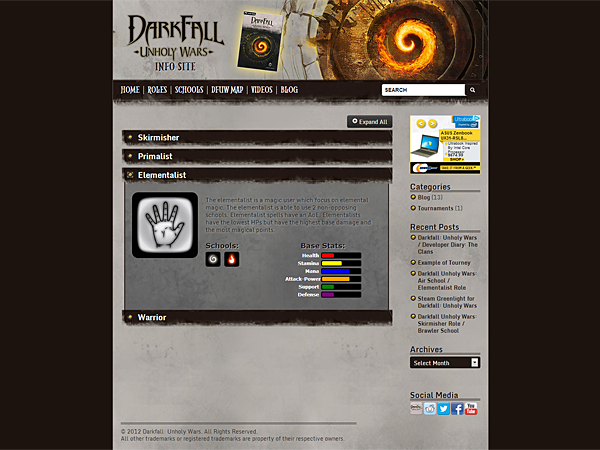
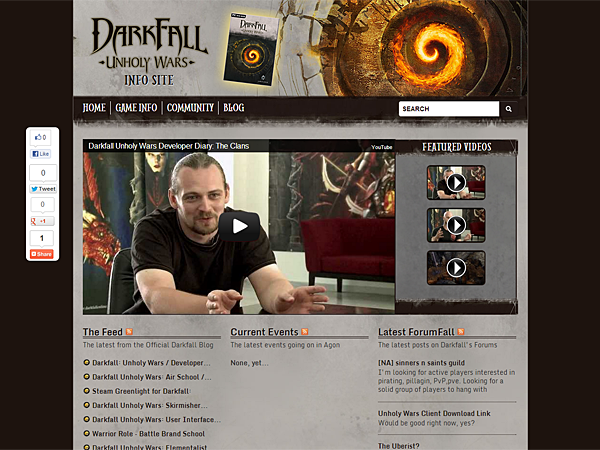
update readme and screenshots

diff --git a/README.md b/README.md
@@ -11,13 +11,24 @@ Dynamic content created within the admin section of WP
   * Spells
   * Roles
   * Schools
+  * Videos
 * Custom Page Templates
+* Dynamic data pulled in from Official Sites
+* More to come...
 
 ## Screenshot
 
 ![][1]
+![][2]
+![][3]
+![][4]
+![][5]
 
   [1]: https://raw.github.com/nmynarcik/darkfalluw/master/screenshot.png
+  [1]: https://raw.github.com/nmynarcik/darkfalluw/master/screenshot2.png
+  [1]: https://raw.github.com/nmynarcik/darkfalluw/master/screenshot3.png
+  [1]: https://raw.github.com/nmynarcik/darkfalluw/master/screenshot4.png
+  [1]: https://raw.github.com/nmynarcik/darkfalluw/master/screenshot5.png
 
 ## Installation
 
